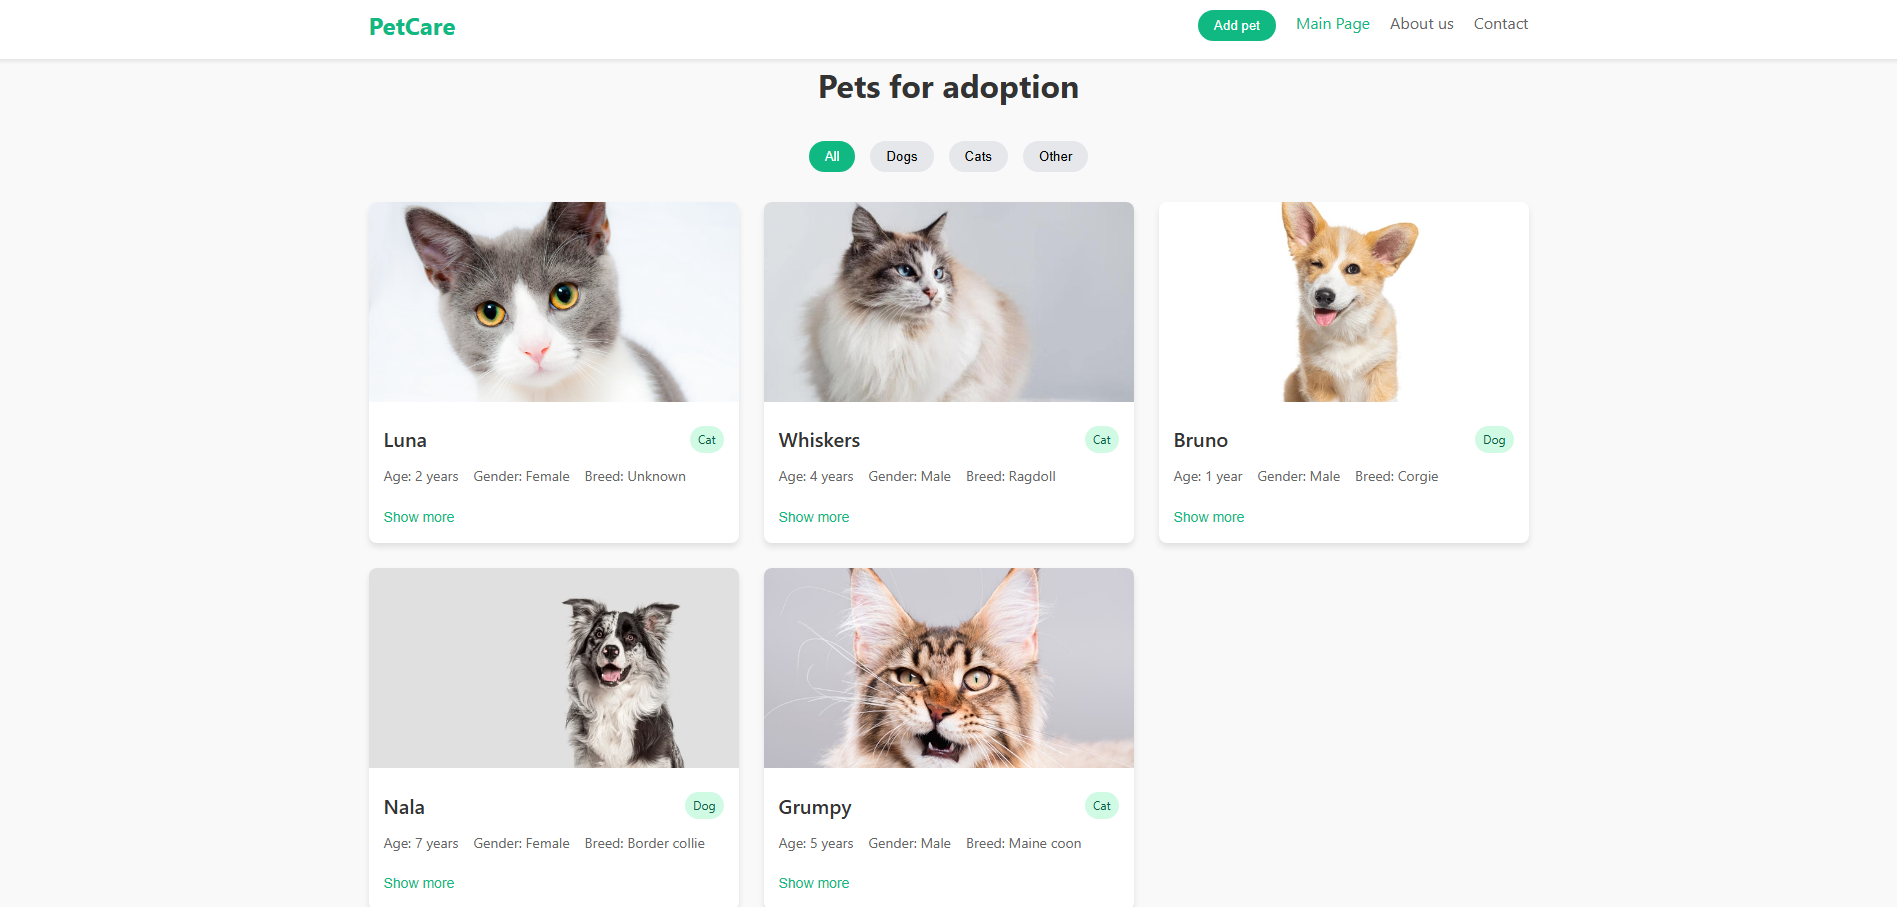
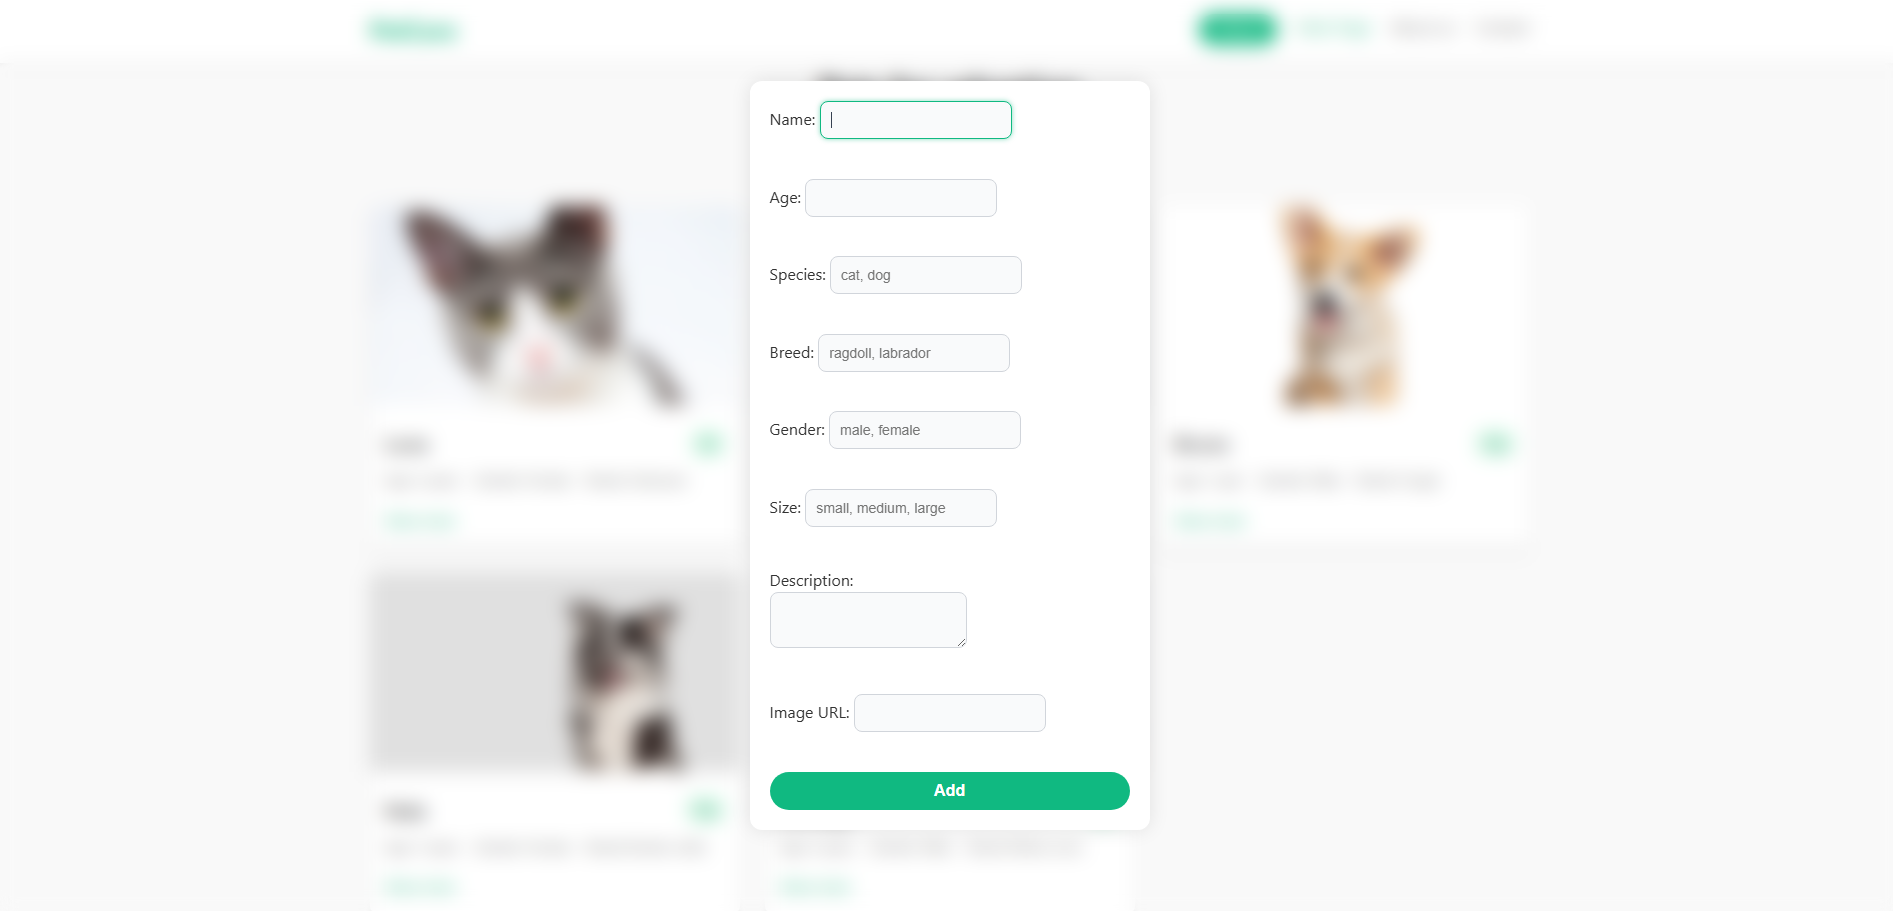
Update README

diff --git a/README.md b/README.md
@@ -1,0 +1,43 @@
+# 🐾 PetCare – Animal Adoption Platform
+**PetCare** is a simple web application designed to support the adoption of pets. It allows users to browse available animals, create accounts, and add pet profiles linked to their user accounts.
+
+⚠ Work still in progress 
+
+## Technologies
+- Java 17
+- Spring Boot
+- PostgreSQL
+- Maven
+
+## Features
+- Add pet profiles (linked to user accounts)
+- User registration and login (users can create accounts)
+- REST API endpoints  
+- Clean project structure (models, services, repositories, controllers)
+
+## How to Run
+1. Ensure you have Java 17 and Maven installed
+
+2. Clone the repo
+    ```
+    git clone https://github.com/aishex/PetCare.git
+    cd PetCare
+    ```
+
+3. Set up the PostgreSQL database
+   - Create a database named `petcare`  
+   - Update your `application.properties` with your DB username and password
+
+4. Run the project from the command line:
+    ```
+    mvn clean install
+    mvn spring-boot:run
+    ```
+5. Open the app in your browser
+
+http://localhost:8080
+
+
+## 📸 Screenshots
+![Main Page](src/main/resources/static/main_page.png)
+![Add Pet Form](src/main/resources/static/add_pet.png)
